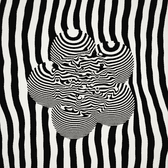
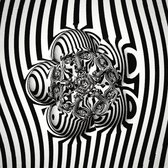
Figures wear the pattern: a shape, and whatever's showing decides how it looks
Every figure now shows the pattern on screen by default, thrown across its surface and bent by it, so the same face looks different on every pattern. The pattern stays as sharp as it is on the sheet: shape comes from the bending, the outline, and soft shadow in the hollows and around the foot. Own stripes, the negative, black and white stay as choices, but none is the default. Striped Hand is gone.

Controls for how far a shape bends and throws the pattern, how big it is on the shape, and how much shadow. New thumbnails.

diff --git a/src/engine/forms.js b/src/engine/forms.js
@@ -1,15 +1,17 @@
-// Forms: solids that come up through the sheet under your cursor, the way the hand does. What makes the hand
-// work is that it's a real solid: its outline cuts hard against the pattern behind it, and the pattern runs
-// straight across it. So every form here is the same kind of thing, and every one can be shifted live: folded
-// round into a wheel, grown into smaller copies of itself, twisted, sliced into plates, eaten into a lattice.
+// Forms: shapes that come up through the sheet under your cursor, the way the hand does. A form is only a shape:
+// what you see on it is whatever pattern is showing, thrown across its surface and bent by it, so it looks
+// different on every pattern. Its outline cuts hard against what's behind it. And every one can be shifted live:
+// folded round into a wheel, grown into smaller copies of itself, twisted, sliced into plates, eaten into a lattice.
 //
 //   base    which solid (BASES); one that's baked comes from assets/solids/
 //   shift   what's done to it, on top of the settings in SHIFT_DEFAULTS
 export const BASES = ['hand', 'face', 'coral', 'rope', 'knot', 'bloom', 'star', 'egg'];
 export const BAKED = { face: 'face' };
 
-// how big each comes up for the same size setting, and how far it reaches from its middle in the hand's units
-// (rays further off than that never read it)
+// how big each comes up for the same size setting, how far it reaches from its middle in the hand's units (rays
+// further off than that never read it), and how far its surface bends the pattern (thin parts less, or the
+// pattern gets squeezed to gray)
+export const BASE_WARP = { hand: 0.6, face: 1, coral: 0.3, rope: 0.22, knot: 0.25, bloom: 0.4, star: 0.55, egg: 0.45 };
 export const BASE_SCALE = { hand: 1, face: 0.62, coral: 0.6, rope: 0.72, knot: 0.72, bloom: 0.7, star: 0.62, egg: 0.62 };
 export const BASE_REACH = { hand: 0.56, face: 0.72, coral: 0.82, rope: 0.46, knot: 0.46, bloom: 0.56, star: 0.56, egg: 0.5 };
 
@@ -21,8 +23,8 @@ export const SHIFT_DEFAULTS = {
   slice: 0, layers: 11, sliceTilt: 0.5,            // cut into plates
   rings: 0,                                        // cut into shells inside each other
   holes: 0, bumps: 0, blocks: 0, swell: 0,
-  rise: 0, turn: 0, lean: 0, melt: 0.5,            // how it sits
-  neg: 0, fill: 0, fine: 1, contour: 0, stripes: 130, stripeTilt: 0.9, stripeInk: 0, aura: 0,   // how it's drawn
+  rise: 0, turn: 0, lean: 0, melt: 0.3,            // how it sits
+  warp: 1, throw: 1, shade: 0.75, neg: 0, fill: 0, fine: 1, contour: 0, stripes: 130, stripeTilt: 0.9, stripeInk: 0, aura: 0,   // how it's drawn
 };
 
 // the controls for all that: [key, label, min, max, step], grouped. The Shift tool can put any of them on your mouse.
@@ -31,7 +33,8 @@ export const SHIFT_GROUPS = [
   ['Bend it', [['twist', 'Twist', -8, 8, 0.01], ['bend', 'Bend', -3.5, 3.5, 0.01], ['wave', 'Sway', 0, 2, 0.01], ['swell', 'Thin ↔ fat', -0.05, 0.1, 0.001]]],
   ['Cut it', [['slice', 'Plates', 0, 1, 0.01], ['layers', 'How many plates', 4, 40, 0.5], ['sliceTilt', 'Which way they’re cut', -1.57, 1.57, 0.01], ['rings', 'Shells inside shells', 0, 1, 0.01], ['holes', 'Eaten through', 0, 1, 0.01], ['blocks', 'Made of cubes', 0, 1, 0.01], ['bumps', 'Bumps', 0, 1, 0.01]]],
   ['How it sits', [['rise', 'Sunk ↔ out of the sheet', -0.7, 0.9, 0.01], ['turn', 'Turn it', -3.14, 3.14, 0.01], ['lean', 'Lean it', -1.4, 1.4, 0.01], ['melt', 'Cut out ↔ melted in', 0, 1, 0.01]]],
-  ['How it’s drawn', [['neg', 'Its pattern’s negative', 0, 1, 0.01], ['fill', 'White ↔ black outline', -1, 1, 0.01], ['contour', 'Its own stripes', 0, 1, 0.01], ['stripes', 'How many stripes', 15, 320, 1], ['stripeTilt', 'Which way they run', -1.57, 1.57, 0.01], ['stripeInk', 'Stripes: pale ↔ dark', -1, 1, 0.01], ['fine', 'Its pattern: finer ↔ bigger', 0.3, 3, 0.01], ['aura', 'Its outline ripples out', 0, 2, 0.01]]],
+  ['How the pattern lies on it', [['warp', 'How far the shape bends the pattern', 0, 3, 0.01], ['throw', 'How far it’s thrown across', 0, 4, 0.01], ['fine', 'The pattern on it: bigger ↔ finer', 0.3, 3, 0.01], ['shade', 'Flat ↔ shadowed', 0, 1, 0.01], ['aura', 'Its outline ripples out', 0, 2, 0.01]]],
+  ['Instead of the pattern', [['neg', 'The pattern’s negative', 0, 1, 0.01], ['fill', 'White ↔ black', -1, 1, 0.01], ['contour', 'Its own stripes', 0, 1, 0.01], ['stripes', 'How many stripes', 15, 320, 1], ['stripeTilt', 'Which way they run', -1.57, 1.57, 0.01], ['stripeInk', 'Stripes: pale ↔ dark', -1, 1, 0.01]]],
 ];
 export const SHIFT_CONTROLS = Object.fromEntries(SHIFT_GROUPS.flatMap(([, c]) => c.map(x => [x[0], x])));
 // the Shift tool's first settings: left-right, then up-down
@@ -54,31 +57,30 @@ export function surpriseShift(base, rand = Math.random) {
   ];
   const n = 1 + Math.floor(rand() * 2.4), used = new Set();
   for (let i = 0; i < n; i++) { let m; do m = pick(moves); while (used.has(m)); used.add(m); m(); }
-  // mostly in its own stripes, since they show off a shape best
+  // nearly always the pattern itself, bent one way or another
+  S.warp = r(0.6, 2.2); S.throw = r(0.5, 2.5);
+  if (rand() < 0.3) S.fine = r(1.3, 2.4);
   const skin = rand();
-  if (skin < 0.15) S.neg = 1;
-  else if (skin < 0.25) S.fill = pick([-1, 1]);
-  else { S.contour = 1; S.stripes = r(150, 260); S.stripeInk = rand() < 0.3 ? r(0.4, 0.85) : 0; S.stripeTilt = r(-1.2, 1.2); }
+  if (skin < 0.1) S.neg = 1;
+  else if (skin < 0.15) S.fill = pick([-1, 1]);
   if (rand() < 0.3) S.aura = r(0.5, 1.4);
   if (rand() < 0.35) S.lean = r(-0.6, 0.6);
   return { ...SHIFT_DEFAULTS, ...S };
 }
 
-const ZEBRA = { contour: 1 };
 export const FORMS = [
-  { id: 'hand', name: 'Hand', base: 'hand', blurb: 'your cursor is the wrist. Hold: it makes a fist' },
-  { id: 'zebra', name: 'Striped Hand', base: 'hand', shift: { ...ZEBRA, stripes: 240, stripeInk: 0.5 }, blurb: 'the same hand in its own stripes, so its outline cuts through anything' },
-  { id: 'face', name: 'The Face', base: 'face', shift: { ...ZEBRA, rise: -0.12, stripes: 200, aura: 0.6 }, blurb: 'on its back, coming up through the sheet. Hold: the mouth opens' },
-  { id: 'wheel', name: 'Hand Wheel', base: 'hand', shift: { ...ZEBRA, fold: 6, spread: 0.16, stripes: 200, stripeInk: 0.3 }, blurb: 'one hand folded round itself. Hold: every fist at once' },
-  { id: 'handtree', name: 'Hand Tree', base: 'hand', shift: { ...ZEBRA, echo: 2, echoTurn: 0.9, echoSize: 0.72, stripes: 240, stripeInk: 0.4 }, blurb: 'each hand grows two smaller hands' },
-  { id: 'masks', name: 'Ring of Faces', base: 'face', shift: { ...ZEBRA, fold: 5, spread: 0.36, stripes: 200 }, blurb: 'the same face, looking every way' },
-  { id: 'plates', name: 'Cut Face', base: 'face', shift: { ...ZEBRA, rise: -0.12, stripes: 200, slice: 0.55, layers: 15, sliceTilt: 1.57 }, blurb: 'cut into plates you can see between' },
-  { id: 'coral', name: 'Coral', base: 'coral', shift: { ...ZEBRA, stripes: 220, stripeInk: 0.85 }, blurb: 'each branch splits in two, six times over. Hold: it closes up' },
-  { id: 'rope', name: 'Rope', base: 'rope', shift: { ...ZEBRA, stripes: 200 }, blurb: 'a rope made of ropes, always twisting. Hold: it loosens' },
-  { id: 'knot', name: 'Knot', base: 'knot', shift: { ...ZEBRA, stripes: 200 }, blurb: 'the same rope, tied. Hold: it loosens' },
-  { id: 'bloom', name: 'Bloom', base: 'bloom', shift: { ...ZEBRA, stripes: 170 }, blurb: 'petals in layers. Hold: it shuts' },
-  { id: 'star', name: 'Star', base: 'star', shift: { ...ZEBRA, stripes: 200 }, blurb: 'twelve points, sharp facets. Hold: the points grow' },
-  { id: 'sponge', name: 'Sponge', base: 'egg', shift: { ...ZEBRA, holes: 0.7, stripes: 170 }, blurb: 'a ball eaten through, the pattern showing in the holes' },
+  { id: 'hand', name: 'Hand', base: 'hand', shift: { melt: 0.57 }, blurb: 'your cursor is the wrist. Hold: it makes a fist' },
+  { id: 'face', name: 'The Face', base: 'face', shift: { rise: -0.12, aura: 0.5 }, blurb: 'on its back, coming up through the sheet. Hold: the mouth opens' },
+  { id: 'wheel', name: 'Hand Wheel', base: 'hand', shift: { fold: 6, spread: 0.16, melt: 0.57 }, blurb: 'one hand folded round itself. Hold: every fist at once' },
+  { id: 'handtree', name: 'Hand Tree', base: 'hand', shift: { echo: 2, echoTurn: 0.9, echoSize: 0.72, melt: 0.57 }, blurb: 'each hand grows two smaller hands' },
+  { id: 'masks', name: 'Ring of Faces', base: 'face', shift: { fold: 5, spread: 0.36 }, blurb: 'the same face, looking every way' },
+  { id: 'plates', name: 'Cut Face', base: 'face', shift: { rise: -0.12, slice: 0.55, layers: 15, sliceTilt: 1.57 }, blurb: 'cut into plates you can see between' },
+  { id: 'coral', name: 'Coral', base: 'coral', blurb: 'each branch splits in two, six times over. Hold: it closes up' },
+  { id: 'rope', name: 'Rope', base: 'rope', blurb: 'a rope made of ropes, always twisting. Hold: it loosens' },
+  { id: 'knot', name: 'Knot', base: 'knot', blurb: 'the same rope, tied. Hold: it loosens' },
+  { id: 'bloom', name: 'Bloom', base: 'bloom', blurb: 'petals in layers. Hold: it shuts' },
+  { id: 'star', name: 'Star', base: 'star', blurb: 'twelve points, sharp facets. Hold: the points grow' },
+  { id: 'sponge', name: 'Sponge', base: 'egg', shift: { holes: 0.7 }, blurb: 'a ball eaten through, the pattern showing in the holes' },
 ];
 export const FORM_INDEX = Object.fromEntries(FORMS.map((f, i) => [f.id, i]));
 

diff --git a/src/adds.js b/src/adds.js
@@ -3,7 +3,7 @@
 // The camera and the picture go through media.js / tracking.js; the rest are written straight into the
 // world's values every frame (after the look and the music), so they ride along with whatever look is on.
 
-import { FORMS, FORM_INDEX, BASES, BASE_REACH, BASE_SCALE, BAKED, SHIFT_DEFAULTS } from './engine/forms.js';
+import { FORMS, FORM_INDEX, BASES, BASE_REACH, BASE_SCALE, BASE_WARP, BAKED, SHIFT_DEFAULTS } from './engine/forms.js';
 import { rayOnSheet, rayAt, noSheet, camDist, camHeight } from './engine/camera.js';
 
 export const ADDS = [
@@ -220,10 +220,11 @@ export class Form {
     return of(A, this.fa) * (1 - m) + of(B, this.b != null ? this.fb : this.fa) * m;
   }
 
-  // the hand is drawn with more shading than anything else: it has the fine outline to carry it
-  drawn() {
+  // the hand has the fine outline to carry heavier ink; anything else keeps the pattern as sharp as it is on the sheet
+  drawn(V) {
     const k = (this.a === 0 ? 1 - this.mix : 0) + (this.b === 0 ? this.mix : 0);
-    return { formLit: 0.3 + 1.2 * k, formRim: 0.12 + 0.23 * k, formLens: 0.45 + 0.55 * k };
+    const m = this.b != null ? this.mix : 0, warp = BASE_WARP[BASES[this.a]] * (1 - m) + (this.b != null ? BASE_WARP[BASES[this.b]] * m : 0);
+    return { formLit: 1.5 * k, formRim: 0.35 * k, formLens: V.warp * warp, formShade: V.shade * (1 - k) };
   }
 
   apply(v, cfg, m) {
@@ -248,13 +249,13 @@ export class Form {
       formYaw: this.facing + V.turn + this.yawOf(A, B), formLean: V.lean,
       formA: this.a, formB: this.b ?? this.a, formMix: this.b != null ? this.mix * this.mix * (3 - 2 * this.mix) : 0,
       formFA: this.fa, formFB: this.b != null ? this.fb : this.fa, formEA: this.ea, formEB: this.b != null ? this.eb : this.ea,
-      formOpen: open, formSoft: (V.blocks > 0.004 ? 0.012 : 0.015 + V.melt * V.melt * 0.42) * v.frame / 0.6, formBound: bound,
+      formOpen: open, formSoft: (V.blocks > 0.02 ? 0.012 : 0.015 + V.melt * V.melt * 0.42) * v.frame / 0.6, formBound: bound,
       formSpread: V.spread, formSpin: V.spin + this.spinT * (fold > 1 ? 1 : 0), formEchoS: V.echoSize, formEchoT: V.echoTurn + w(0.17, 2) * 0.25,
       formField: field, formTwist: twist, formBend: bend, formWave: waveA > 0.004 ? waveA : 0, formWaveT: this.wave, formRopeT: this.rope,
       formSlice: V.slice, formSliceF: V.layers, formSliceA: V.sliceTilt + w(0.11, 0.7) * 0.5, formSliceP: this.sliceT, formRings: V.rings, formRingT: this.ring,
-      formHoles: V.holes, formBumps: V.bumps, formBlocks: V.blocks > 0.004 ? 0.012 + V.blocks * 0.09 : 0, formSwell: swell,
-      formBaked: BAKED[A] || BAKED[B] ? 1 : 0,
-      ...this.drawn(),
+      formHoles: V.holes, formBumps: V.bumps, formBlocks: V.blocks > 0.02 ? 0.012 + V.blocks * 0.09 : 0, formSwell: swell,
+      formBaked: BAKED[A] || BAKED[B] ? 1 : 0, formThrow: V.throw,
+      ...this.drawn(V),
       formNeg: V.neg, formFill: V.fill, formFine: V.fine, formContour: V.contour, formStripeA: V.stripeTilt, formStripeF: V.stripes, formStripeW: V.stripeInk, formAura: V.aura + bass * V.aura, formAuraT: this.aura,
     });
   }

diff --git a/src/engine/shader.js b/src/engine/shader.js
@@ -902,8 +902,18 @@ void main() {
     if (MEDIACALM > 0.0) gCalm = 1.0 - MEDIACALM * mediaMaskSoft(p.xy, 1.5);
     if (AURA > 0.0) gAura = AURA * 2.0 * mediaMaskSoft(p.xy, log2(float(textureSize(uMedia, 0).y) / 22.0));
     // on a form: the same pattern runs straight across it, its outline cutting against what's behind
-    float dForm = 1e3;
-    if (FORMON > 0.001 && (nearForm || FORMAURA > 0.0)) { gFormFull = true; dForm = formD(p); gFormFull = false; }
+    float dForm = 1e3, shutIn = 1.0;
+    if (FORMON > 0.001 && (nearForm || FORMAURA > 0.0)) {
+      // and how shut in this point is: how far from the form you get, going a little way straight out
+      gFormFull = true;
+      float out_ = 0.11 * FORMS;
+      int m = (FORMSHADE > 0.0 && nearForm ? 2 : 1) + int(min(uStepK, 0.0));
+      for (int j = 0; j < m; j++) {
+        float dj = formD(j == 0 ? p : p + n * out_);
+        if (j == 0) dForm = dj; else shutIn = smoothstep(0.0, 0.55, dj / out_);    // (only a real hollow: on an open surface this is well over that)
+      }
+      gFormFull = false;
+    }
     float dSolid = min(dForm, UP(HAND_BASE) + UP(HAND_BASE + 8) > 0.0 ? hands(p) : 1e3);
     float formK = 1.0 - smoothstep(0.004, 0.03 * FRAME, dSolid);
     float formHard = 1.0 - smoothstep(0.0015 * FRAME, 0.006 * FRAME, dForm);
@@ -918,7 +928,7 @@ void main() {
       rr = 1.0;
     } else {
       // over a form the lines also bend the way the surface leans, like lines seen through thick glass
-      vec2 sq0 = p.xy + n.xy * FRAME * 0.12 * FORMLENS * formK, nn = n.xy * REFRACT;
+      vec2 sq0 = p.xy + n.xy * (FORMON > 0.001 ? FORMS * 0.095 : FRAME * 0.12) * FORMLENS * formK, nn = n.xy * REFRACT;
       // seen from straight above, a shape under the sheet would hardly show: lean the pattern over it by its
       // height, the way lines lie over a form on a tilted page (a low camera does this by itself)
       if (RELIEF > 0.0) sq0 -= rot(YAW) * vec2(0.62, 0.78) * p.z * RELIEF;
@@ -1004,6 +1014,12 @@ void main() {
     }
     k = mix(k, 1.0 - k, flip);
     col = mix(paper, ink, k);
+    if (FORMSHADE > 0.0 && (formK > 0.0 || shutIn < 1.0)) {    // the shape itself: the pattern stays as sharp as it was, and goes into shadow
+      vec3 Ls = normalize(gBack + vec3(-0.62, 0.5, 0.15));
+      float lift = clamp(0.8 + 0.9 * (dot(n, Ls) - Ls.z), 0.0, 1.0);
+      float rim = 1.0 - max(dot(n, -rd), 0.0);
+      col *= 1.0 - FORMSHADE * (1.0 - shutIn * (1.0 - formK * (0.5 * (1.0 - lift) + 0.75 * rim * rim * rim)));   // hollows and round its foot; its sides, more toward the outline
+    }
     float spec = pow(max(dot(reflect(-L, n), -rd), 0.0), 40.0);
     if (onBall) {
       float fres = pow(1.0 - max(dot(n, -rd), 0.0), 2.0);

diff --git a/src/engine/params.js b/src/engine/params.js
@@ -172,7 +172,7 @@ export const PARAMS = [
   P('formSlice', 0, 0, 1), P('formSliceF', 11, 1, 60), P('formSliceA', 0.5, -4, 4), P('formSliceP', 0, 0, 0), P('formRings', 0, 0, 1), P('formRingT', 0, 0, 0),
   P('formHoles', 0, 0, 1), P('formBumps', 0, 0, 1), P('formBlocks', 0, 0, 1), P('formSwell', 0, -1, 1), P('formBaked', 0, 0, 1),
   P('formNeg', 0, 0, 1), P('formFill', 0, -1, 1), P('formFine', 1, 0.1, 8), P('formContour', 0, 0, 1), P('formStripeA', 0.9, -4, 4), P('formStripeF', 130, 4, 400), P('formStripeW', 0, -1.2, 1.2), P('formAura', 0, 0, 3), P('formAuraT', 0, 0, 0),
-  P('formLens', 0.45, 0, 4), P('formLit', 0.3, 0, 4), P('formRim', 0.12, 0, 4), P('relief', 0, 0, 4),
+  P('formLens', 1, 0, 6), P('formLit', 0, 0, 4), P('formRim', 0, 0, 4), P('formShade', 0, 0, 1), P('relief', 0, 0, 4),
   ...HANDS,
   P('ball', 0, 0, 1), P('ballX', 0, -4, 4), P('ballY', 0, -4, 4), P('ballZ', 0, -1, 2), P('ballR', 0.12, 0.02, 1),
   P('ballVX', 1, -1, 1), P('ballVY', 0, -1, 1), P('ballWake', 0.5, 0, 2), P('ballFlow', 1, 0, 2),

diff --git a/src/ui/ui.js b/src/ui/ui.js
@@ -452,7 +452,7 @@ export function createUI(app) {
           h('button', { class: 'btn', html: `${icon('dice')}<span>Shift it for me</span>`, 'data-tip': 'X', onclick: () => app.surpriseForm() }),
           h('button', { class: 'btn', html: `${icon('reset')}<span>Put it back</span>`, 'data-tip': 'Z', onclick: () => app.resetForm() })),
         chips(SKINS, id => skinNow(F.shift) === id, id => { Object.assign(F.shift, SKIN_SET[id]); renderBody(); }, 'small'),
-      ] : h('p', { class: 'lead' }, 'Pick one and it comes up through the sheet under your cursor. Hold the mouse and it reacts. Pick another and the first melts into it.'),
+      ] : h('p', { class: 'lead' }, 'Pick a shape and it comes up through the sheet under your cursor, wearing whatever pattern is showing. Hold the mouse and it reacts. Pick another and the first melts into it.'),
       h('div', { class: 'fig-grid' }, FORMS.map(figCard)),
       F.on ? [
         addSlider('figures', 'size', 'Size', 0.3, 3),

diff --git a/src/main.js b/src/main.js
@@ -820,7 +820,8 @@ function applyAdds(v, m, dt) {
   stepRings(dt, m, v, shows && Fm.on > 0.3 ? Fm.x : v.tx, shows && Fm.on > 0.3 ? Fm.y : v.ty);
   app.ball.apply(v, A.ball);
   // seen from above, a shape would hardly show: the lines lean over it by its height
-  v.relief = Fm.on * 0.6 * (1 - clamp((v.pitch - 0.08) / 0.75, 0, 1));
+  const flat = 1 - clamp((v.pitch - 0.08) / 0.75, 0, 1), handK = (Fm.a === 0 ? 1 - Fm.mix : 0) + (Fm.b === 0 ? Fm.mix : 0);
+  v.relief = Fm.on * (v.formThrow ?? 1) * (0.6 * flat * handK + (0.8 + 1.2 * flat) * (1 - handK));
   // and they crowd in, so a form under them is drawn in enough lines to be seen
   if (Fm.on > 0) v.freq += Math.max(Math.min(17 / v.frame, v.freq * (v.vortex > 1 || v.conf > 0.5 ? 1.25 : 1.5)) - v.freq, 0) * Fm.on * (1 - Fm.val.contour);   // (in its own stripes it doesn't need them)
   applyInputs(v, m);

diff --git a/src/score.js b/src/score.js
@@ -90,7 +90,7 @@ export function buildScore(songId, an, opts) {
       }
       // now and then, when it's big and it's a place: not one figure but a whole sea of them
       let crowd = false;
-      if (figure && world && (k === 'peak' || k === 'swell') && kindCam === 'open' && r() < 0.3) { figure = pick(['zebra', 'star', 'coral']); crowd = true; }
+      if (figure && world && (k === 'peak' || k === 'swell') && kindCam === 'open' && r() < 0.3) { figure = pick(['hand', 'star', 'coral']); crowd = true; }
       // most of a scene is the morph into it: a slow change that fills the time, quicker when a big section lands
       const length = t1 - t0, landing = i === 0 && (k === 'peak' || k === 'pulse');
       const glide = landing ? Math.min(6, length * 0.5) : Math.max(4, Math.min(16, length * (k === 'hush' ? 0.85 : 0.72)));

diff --git a/README.md b/README.md
@@ -12,8 +12,8 @@ Everything fades away when you stop moving the mouse. At the bottom:
   - **Solid**: flat, hard-edged black and white. Triangle Vortex, Endless Triangles (conformal: tiles keep their shape as they fall in for ever), Two Poles, Twin Whirlpools, Circle Limit (a real hyperbolic tiling, after Escher), Tumbling Blocks, Truchet, Blaze (after Riley), Stargate, Op Stripes, Squeeze, Vasarely…
   - **Strange**: patterns out of mathematics and sound. Cymatics and Chladni Sand (the note decides the figure), Crystal (families of straight lines, each sliding to its own part of the sound), Ink (real marbling: every kick and sung note drops ink on the water and pushes everything aside), Metamorphosis (squares melting into interlocking creatures), Planets, Khatam and Rosette (star lattices the tune sharpens), Lace, Julia (a fractal walking with the tune), Quasicrystal, Agate, Ripple Tank, Living Labyrinth (reaction-diffusion: it grows by itself)…
   - **Worlds**: the pattern as a place. Triangle Floor, Checker Hills, Line Landscape, Silk, Origami, Pulsar (the sound rolling away through thin lines), Pin Art (a bed of pins, pushed up by the sound), Hallway, Menger Sponge…
-- **Figures** (`G`): solids that come up through the sheet under your cursor, cut hard against the pattern behind them. The Hand and The Face (it lies straight when you look down on it, and across the view when you look along the ground, so its outline is its profile), and things grown and cut: Coral, Rope, Knot, Bloom, Star, Sponge. Each can wear the pattern, its own stripes, the pattern's negative, or plain black or white. Hold the mouse and it reacts. Pick another and the first melts into it. Move the camera and you see it from another side.
-- **Shifting a figure**: fold it round into a wheel, grow smaller copies out of it, cover the sheet with a field of them, twist and bend it, cut it into plates or shells, eat holes through it, build it out of cubes, send its outline rippling across the sheet. The **Shift** tool puts any two of those on your mouse (click it again to choose which); **Turn** spins and leans it; scroll sizes it; `[` and `]` fold it; `X` shifts it at random, `Z` puts it back. A song leaves figures out unless you ask for them in Sound.
+- **Figures** (`G`): shapes that come up through the sheet under your cursor, each cut hard against what's behind it. A figure is only a shape: it wears whatever pattern is showing, thrown across its surface and bent by it, so the same face looks different on every pattern. The Hand and The Face (it lies straight when you look down on it, and across the view when you look along the ground, so its outline is its profile), and things grown and cut: Coral, Rope, Knot, Bloom, Star, Sponge. Hold the mouse and it reacts. Pick another and the first melts into it. Move the camera and you see it from another side.
+- **Shifting a figure**: fold it round into a wheel, grow smaller copies out of it, cover the sheet with a field of them, twist and bend it, cut it into plates or shells, eat holes through it, build it out of cubes, send its outline rippling across the sheet. You can also change how far it bends the pattern, or swap the pattern on it for the negative, plain black or white, or stripes of its own. The **Shift** tool puts any two of those on your mouse (click it again to choose which); **Turn** spins and leans it; scroll sizes it; `[` and `]` fold it; `X` shifts it at random, `Z` puts it back. A song leaves figures out unless you ask for them in Sound.
   - *People*: the Hand (your cursor is its wrist; hold for a fist), The Sleeper (lips moving with the tune), The Cry, Skull (it sings; hold and the jaw drops), The Lovers, The Veil (someone laid out, chest rising).
   - *Inside*: The Heart (beats on the kick), Ribs (breathing the song in).
   - *Creatures*: Kraken (arms never quite still), Manta (swims after your cursor and circles when you stop), Moth (wings shivering on the high notes).
